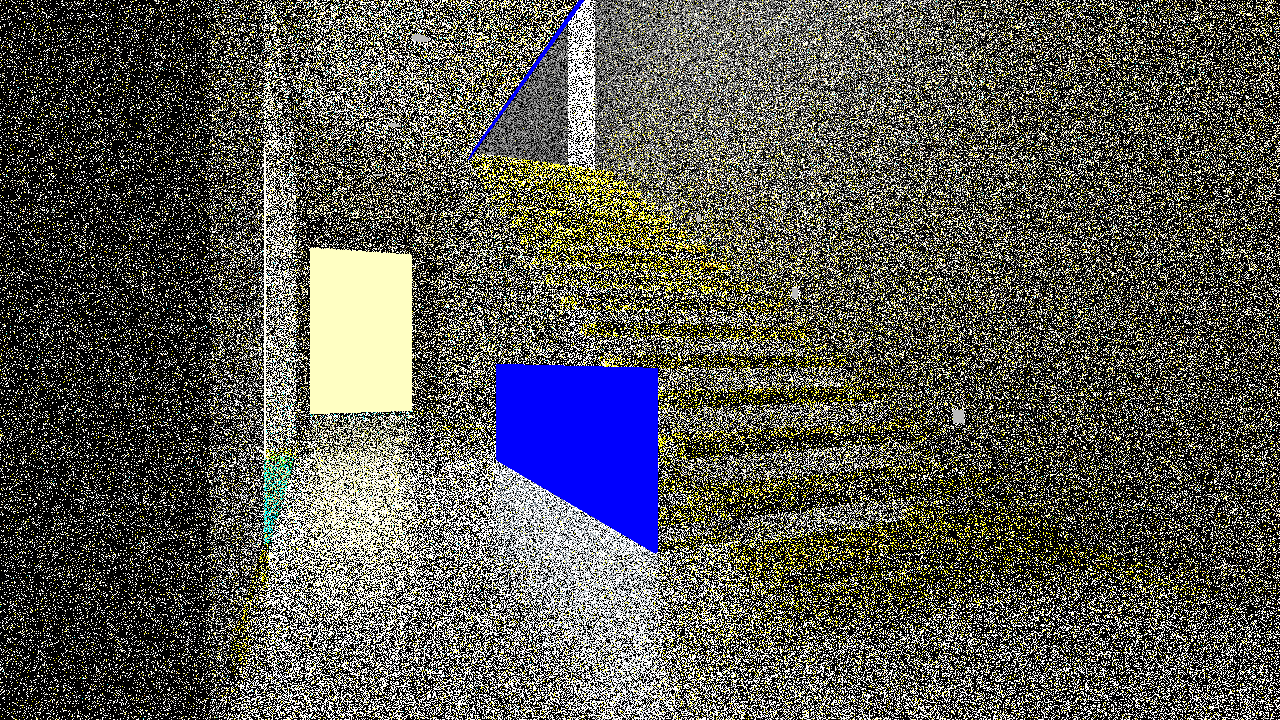
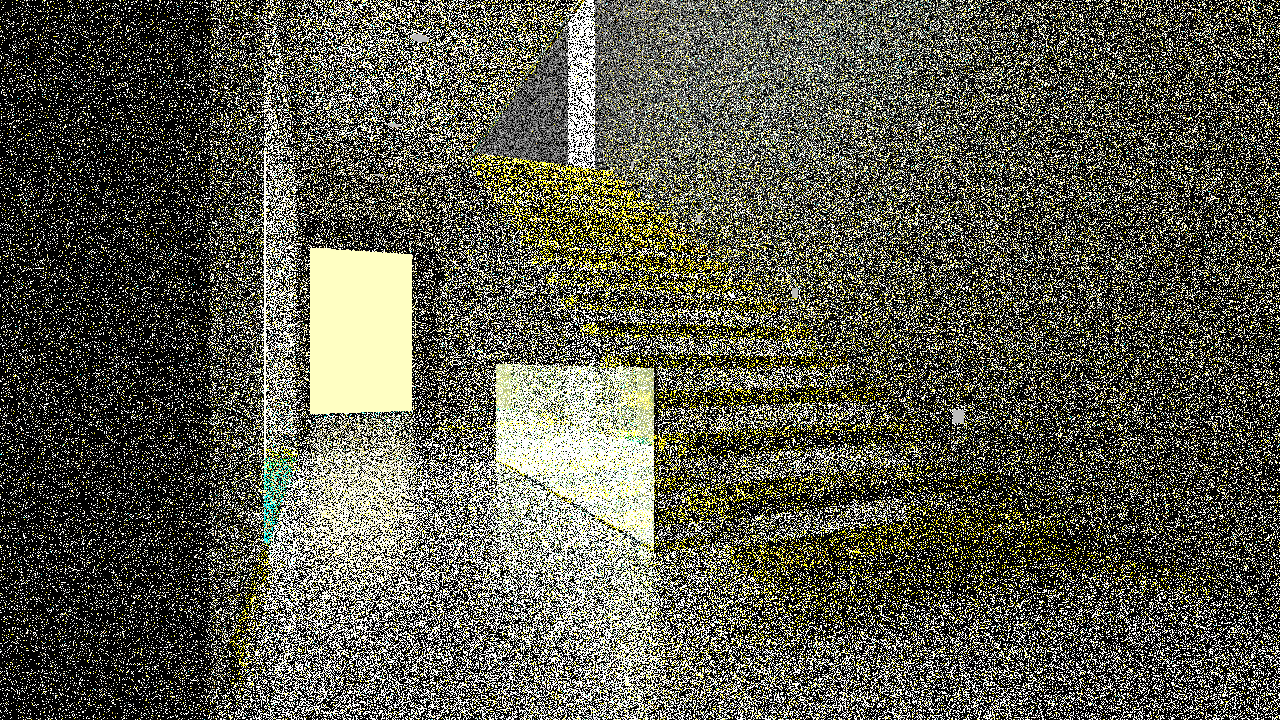
add refraction and reflect

diff --git a/cg-final/my_obj_loader.hpp b/cg-final/my_obj_loader.hpp
@@ -56,7 +56,8 @@ void my_load_obj(std::string const& filename, std::string const& basepath, std::
 			mat->transmittance = glm::vec3(inner_mat.transmittance[0], inner_mat.transmittance[1], inner_mat.transmittance[2]);
 			mat->shininess = inner_mat.shininess;
 			mat->ior = inner_mat.ior;
-			if (mat->ior != 1.f) mat->is_refelect = true;
+			if (mat->ior != 1.f) 
+				mat->is_refelect = true;
 			if (!inner_mat.diffuse_texname.empty()) {
 				mat->diffuse_texture = new Texture(basepath + inner_mat.diffuse_texname);
 			} else {

diff --git a/cg-final/cg-final.cpp b/cg-final/cg-final.cpp
@@ -13,7 +13,7 @@
 
 int main()
 {
-    int max_bounce = 20;
+    int max_bounce = 10;
     float cutoff_weight = 0.01;
     bool shadows = true;
     bool shade_back = false;
